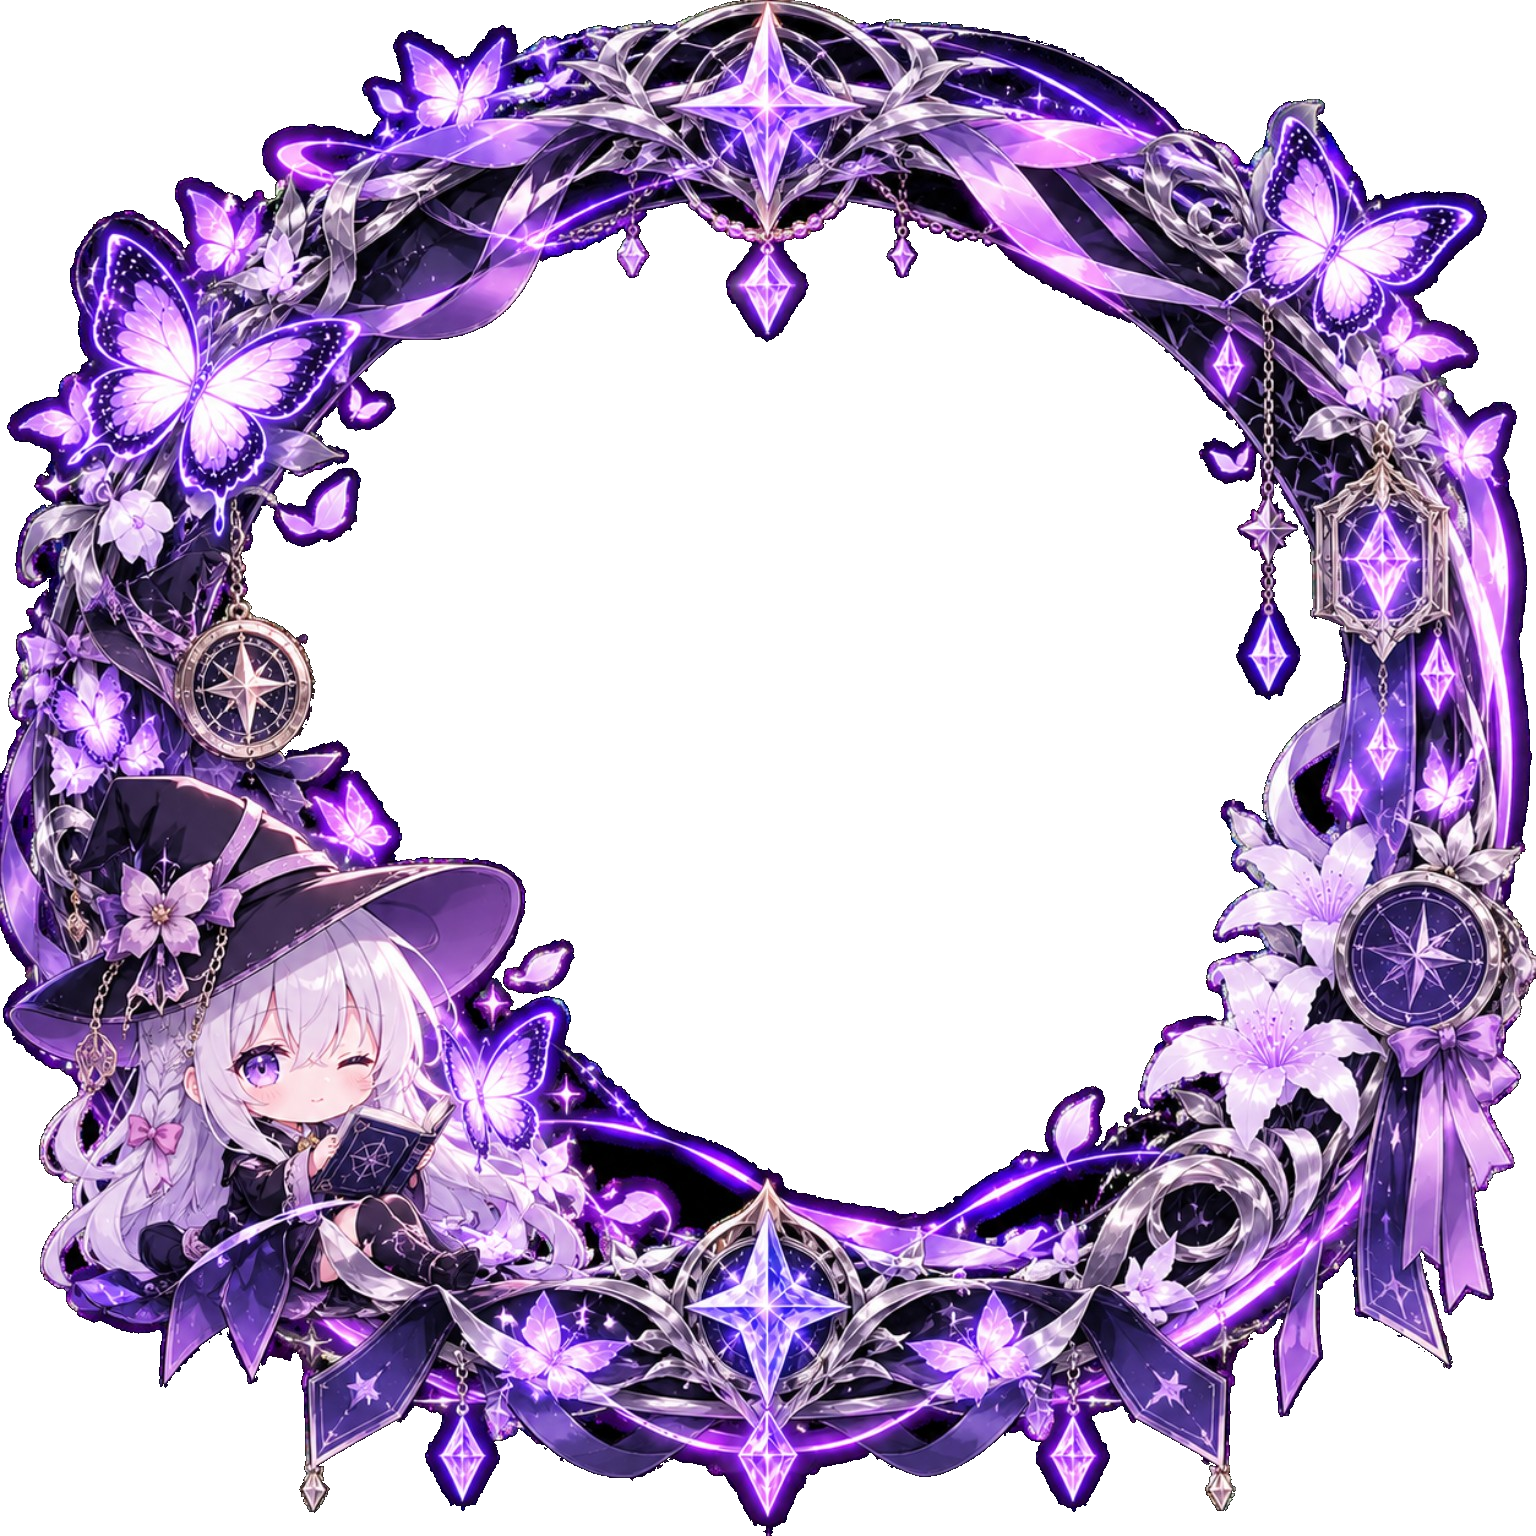
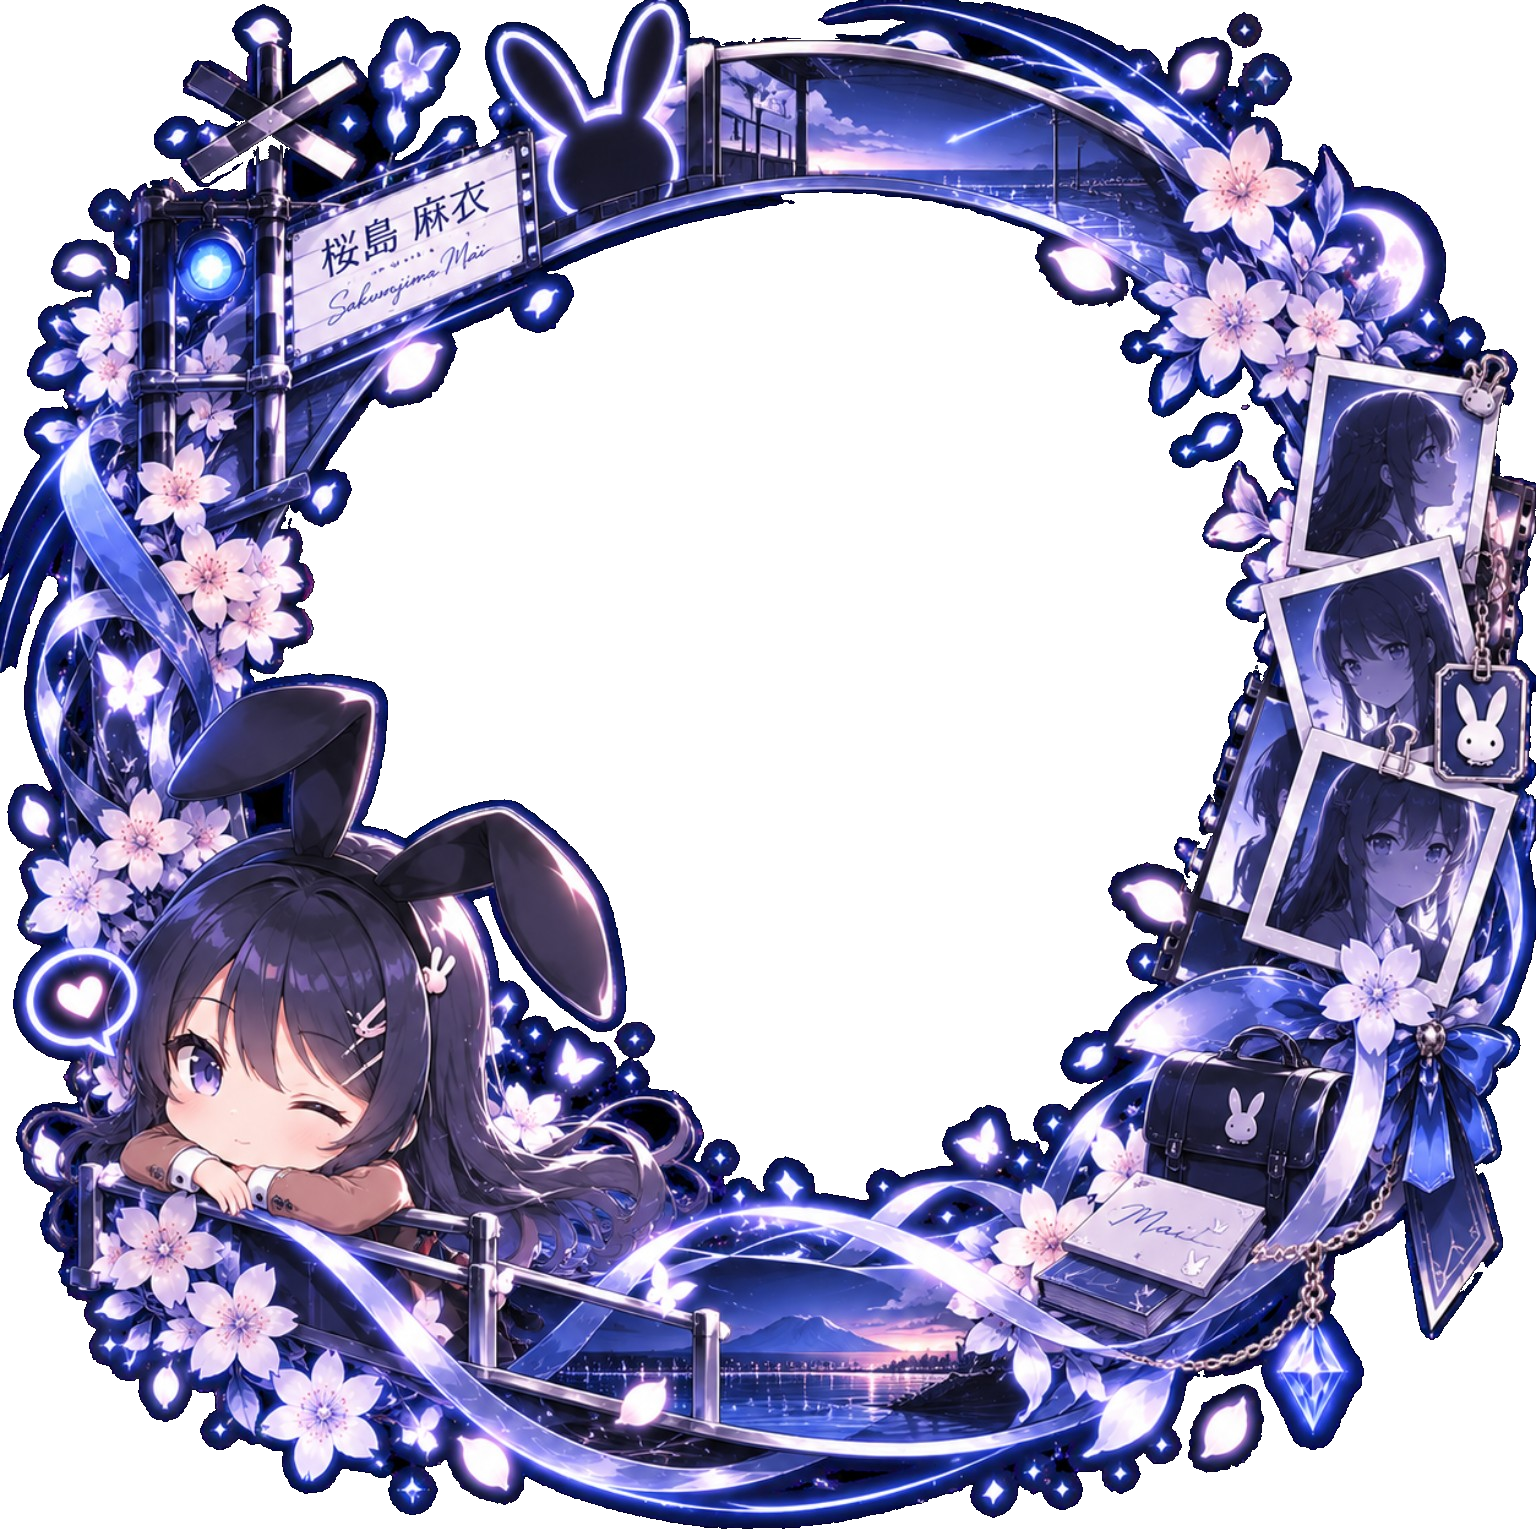
Add files via upload

diff --git a/styles.css b/styles.css
@@ -534,9 +534,9 @@ a.home-member-profile-link{display:block;color:inherit;text-decoration:none;curs
 .member-avatar.has-avatar-frame[data-avatar-frame="Border Mai"],.member-avatar.has-photo.has-avatar-frame[data-avatar-frame="Border Mai"],.public-member-avatar.has-avatar-frame[data-avatar-frame="Border Mai"],.public-profile-avatar.has-avatar-frame[data-avatar-frame="Border Mai"],.chat-contact-avatar.has-avatar-frame[data-avatar-frame="Border Mai"],.chat-person-avatar.has-avatar-frame[data-avatar-frame="Border Mai"],.public-message-avatar.has-avatar-frame[data-avatar-frame="Border Mai"],.member-chat-row .public-member-avatar.has-avatar-frame[data-avatar-frame="Border Mai"]{--border-glow:#6d8bff;--avatar-frame-color:#6d8bff;}
 .member-avatar.has-avatar-frame[data-avatar-frame="Border Kurumi"]::after,.member-avatar.has-photo.has-avatar-frame[data-avatar-frame="Border Kurumi"]::after,.public-member-avatar.has-avatar-frame[data-avatar-frame="Border Kurumi"]::after,.public-profile-avatar.has-avatar-frame[data-avatar-frame="Border Kurumi"]::after,.chat-contact-avatar.has-avatar-frame[data-avatar-frame="Border Kurumi"]::after,.chat-person-avatar.has-avatar-frame[data-avatar-frame="Border Kurumi"]::after,.public-message-avatar.has-avatar-frame[data-avatar-frame="Border Kurumi"]::after,.member-chat-row .public-member-avatar.has-avatar-frame[data-avatar-frame="Border Kurumi"]::after{content:"";position:absolute;inset:-23%;background-image:url("/frame-border-kurumi.png");background-size:100% 100%;background-repeat:no-repeat;background-position:center;pointer-events:none;z-index:8;border-radius:0!important;filter:drop-shadow(0 0 8px #ff344f);}
 .member-avatar.has-avatar-frame[data-avatar-frame="Border Kurumi"],.member-avatar.has-photo.has-avatar-frame[data-avatar-frame="Border Kurumi"],.public-member-avatar.has-avatar-frame[data-avatar-frame="Border Kurumi"],.public-profile-avatar.has-avatar-frame[data-avatar-frame="Border Kurumi"],.chat-contact-avatar.has-avatar-frame[data-avatar-frame="Border Kurumi"],.chat-person-avatar.has-avatar-frame[data-avatar-frame="Border Kurumi"],.public-message-avatar.has-avatar-frame[data-avatar-frame="Border Kurumi"],.member-chat-row .public-member-avatar.has-avatar-frame[data-avatar-frame="Border Kurumi"]{--border-glow:#ff344f;--avatar-frame-color:#ff344f;}
-.member-avatar.has-avatar-frame[data-avatar-frame="Border Elaina"]::after,.member-avatar.has-photo.has-avatar-frame[data-avatar-frame="Border Elaina"]::after,.public-member-avatar.has-avatar-frame[data-avatar-frame="Border Elaina"]::after,.public-profile-avatar.has-avatar-frame[data-avatar-frame="Border Elaina"]::after,.chat-contact-avatar.has-avatar-frame[data-avatar-frame="Border Elaina"]::after,.chat-person-avatar.has-avatar-frame[data-avatar-frame="Border Elaina"]::after,.public-message-avatar.has-avatar-frame[data-avatar-frame="Border Elaina"]::after,.member-chat-row .public-member-avatar.has-avatar-frame[data-avatar-frame="Border Elaina"]::after{content:"";position:absolute;inset:-23%;background-image:url("/frame-border-elaina.png");background-size:100% 100%;background-repeat:no-repeat;background-position:center;pointer-events:none;z-index:8;border-radius:0!important;filter:drop-shadow(0 0 8px #b06cff);}
+.member-avatar.has-avatar-frame[data-avatar-frame="Border Elaina"]::after,.member-avatar.has-photo.has-avatar-frame[data-avatar-frame="Border Elaina"]::after,.public-member-avatar.has-avatar-frame[data-avatar-frame="Border Elaina"]::after,.public-profile-avatar.has-avatar-frame[data-avatar-frame="Border Elaina"]::after,.chat-contact-avatar.has-avatar-frame[data-avatar-frame="Border Elaina"]::after,.chat-person-avatar.has-avatar-frame[data-avatar-frame="Border Elaina"]::after,.public-message-avatar.has-avatar-frame[data-avatar-frame="Border Elaina"]::after,.member-chat-row .public-member-avatar.has-avatar-frame[data-avatar-frame="Border Elaina"]::after{content:"";position:absolute;inset:-23%;background-image:url("/frame-border-mai-blue.png");background-size:100% 100%;background-repeat:no-repeat;background-position:center;pointer-events:none;z-index:8;border-radius:0!important;filter:drop-shadow(0 0 8px #b06cff);}
 .member-avatar.has-avatar-frame[data-avatar-frame="Border Elaina"],.member-avatar.has-photo.has-avatar-frame[data-avatar-frame="Border Elaina"],.public-member-avatar.has-avatar-frame[data-avatar-frame="Border Elaina"],.public-profile-avatar.has-avatar-frame[data-avatar-frame="Border Elaina"],.chat-contact-avatar.has-avatar-frame[data-avatar-frame="Border Elaina"],.chat-person-avatar.has-avatar-frame[data-avatar-frame="Border Elaina"],.public-message-avatar.has-avatar-frame[data-avatar-frame="Border Elaina"],.member-chat-row .public-member-avatar.has-avatar-frame[data-avatar-frame="Border Elaina"]{--border-glow:#b06cff;--avatar-frame-color:#b06cff;}
-.member-avatar.has-avatar-frame[data-avatar-frame="Border Mai Blue"]::after,.member-avatar.has-photo.has-avatar-frame[data-avatar-frame="Border Mai Blue"]::after,.public-member-avatar.has-avatar-frame[data-avatar-frame="Border Mai Blue"]::after,.public-profile-avatar.has-avatar-frame[data-avatar-frame="Border Mai Blue"]::after,.chat-contact-avatar.has-avatar-frame[data-avatar-frame="Border Mai Blue"]::after,.chat-person-avatar.has-avatar-frame[data-avatar-frame="Border Mai Blue"]::after,.public-message-avatar.has-avatar-frame[data-avatar-frame="Border Mai Blue"]::after,.member-chat-row .public-member-avatar.has-avatar-frame[data-avatar-frame="Border Mai Blue"]::after{content:"";position:absolute;inset:-23%;background-image:url("/frame-border-mai-blue.png");background-size:100% 100%;background-repeat:no-repeat;background-position:center;pointer-events:none;z-index:8;border-radius:0!important;filter:drop-shadow(0 0 8px #66aaff);}
+.member-avatar.has-avatar-frame[data-avatar-frame="Border Mai Blue"]::after,.member-avatar.has-photo.has-avatar-frame[data-avatar-frame="Border Mai Blue"]::after,.public-member-avatar.has-avatar-frame[data-avatar-frame="Border Mai Blue"]::after,.public-profile-avatar.has-avatar-frame[data-avatar-frame="Border Mai Blue"]::after,.chat-contact-avatar.has-avatar-frame[data-avatar-frame="Border Mai Blue"]::after,.chat-person-avatar.has-avatar-frame[data-avatar-frame="Border Mai Blue"]::after,.public-message-avatar.has-avatar-frame[data-avatar-frame="Border Mai Blue"]::after,.member-chat-row .public-member-avatar.has-avatar-frame[data-avatar-frame="Border Mai Blue"]::after{content:"";position:absolute;inset:-23%;background-image:url("/frame-border-elaina.png");background-size:100% 100%;background-repeat:no-repeat;background-position:center;pointer-events:none;z-index:8;border-radius:0!important;filter:drop-shadow(0 0 8px #66aaff);}
 .member-avatar.has-avatar-frame[data-avatar-frame="Border Mai Blue"],.member-avatar.has-photo.has-avatar-frame[data-avatar-frame="Border Mai Blue"],.public-member-avatar.has-avatar-frame[data-avatar-frame="Border Mai Blue"],.public-profile-avatar.has-avatar-frame[data-avatar-frame="Border Mai Blue"],.chat-contact-avatar.has-avatar-frame[data-avatar-frame="Border Mai Blue"],.chat-person-avatar.has-avatar-frame[data-avatar-frame="Border Mai Blue"],.public-message-avatar.has-avatar-frame[data-avatar-frame="Border Mai Blue"],.member-chat-row .public-member-avatar.has-avatar-frame[data-avatar-frame="Border Mai Blue"]{--border-glow:#66aaff;--avatar-frame-color:#66aaff;}
 .member-avatar.has-avatar-frame[data-avatar-frame^="Border "]::before,.member-avatar.has-photo.has-avatar-frame[data-avatar-frame^="Border "]::before,.public-member-avatar.has-avatar-frame[data-avatar-frame^="Border "]::before,.public-profile-avatar.has-avatar-frame[data-avatar-frame^="Border "]::before,.chat-contact-avatar.has-avatar-frame[data-avatar-frame^="Border "]::before,.chat-person-avatar.has-avatar-frame[data-avatar-frame^="Border "]::before,.public-message-avatar.has-avatar-frame[data-avatar-frame^="Border "]::before,.member-chat-row .public-member-avatar.has-avatar-frame[data-avatar-frame^="Border "]::before{inset:-24%!important;padding:3px!important;background:conic-gradient(from 0deg,transparent 0deg,var(--border-glow,#c084fc) 45deg,#fff 65deg,transparent 95deg,transparent 180deg,var(--border-glow,#c084fc) 225deg,transparent 260deg,transparent 360deg)!important;filter:drop-shadow(0 0 7px var(--border-glow,#c084fc))!important;animation:pemudaAvatarFrameSpin 2.2s linear infinite!important;}
 

diff --git a/leaderboard.html b/leaderboard.html
@@ -2,7 +2,7 @@
 <html lang="id">
 <head>
 <meta charset="utf-8"><meta name="viewport" content="width=device-width,initial-scale=1"><meta name="theme-color" content="#0b0912"><title>Leaderboard | — Grup Pemuda`友</title><meta name="description" content="Leaderboard resmi member — Grup Pemuda`友."><link rel="stylesheet" href="/styles.css">
-<style>.leaderboard-page{max-width:900px;margin:50px auto}.leaderboard-page .leaderboard-list{display:grid;gap:10px}.leaderboard-page .leaderboard-row{width:100%;text-align:left;cursor:default}.leaderboard-page .back-row{display:flex;gap:10px;flex-wrap:wrap;margin:20px 0}.leaderboard-page .leaderboard-row-avatar{display:block;flex:0 0 48px;width:48px;height:48px;aspect-ratio:1/1;object-fit:cover;object-position:center;border-radius:50%;border:2px solid #a78bfa;background:linear-gradient(145deg,#d946ef,#6366f1,#22d3ee);box-shadow:0 0 12px #8b5cf655}.leaderboard-page .leaderboard-row-avatar-fallback{display:grid;place-items:center;color:white;font-weight:800;font-size:21px}.leaderboard-page .leaderboard-avatar-wrap{position:relative;display:block;flex:0 0 48px;width:48px;height:48px;isolation:isolate;z-index:1}.leaderboard-page .leaderboard-avatar-wrap .leaderboard-row-avatar{width:100%;height:100%;display:block}.leaderboard-page .leaderboard-avatar-wrap.has-avatar-frame::after{content:"";position:absolute;inset:-23%;background-size:100% 100%;background-repeat:no-repeat;background-position:center;pointer-events:none;z-index:8;filter:drop-shadow(0 0 7px #c084fcaa)}.leaderboard-page .leaderboard-avatar-wrap[data-avatar-frame="Border Alya"]::after{background-image:url("/frame-border-alya.png")}.leaderboard-page .leaderboard-avatar-wrap[data-avatar-frame="Border Mahiru"]::after{background-image:url("/frame-border-mahiru.png")}.leaderboard-page .leaderboard-avatar-wrap[data-avatar-frame="Border Tohka"]::after{background-image:url("/frame-border-tohka.png")}.leaderboard-page .leaderboard-avatar-wrap[data-avatar-frame="Border Mai"]::after{background-image:url("/frame-border-mai.png")}.leaderboard-page .leaderboard-avatar-wrap[data-avatar-frame="Border Kurumi"]::after{background-image:url("/frame-border-kurumi.png")}.leaderboard-page .leaderboard-avatar-wrap[data-avatar-frame="Border Elaina"]::after{background-image:url("/frame-border-elaina.png")}.leaderboard-page .leaderboard-avatar-wrap[data-avatar-frame="Border Mai Blue"]::after{background-image:url("/frame-border-mai-blue.png")}.leaderboard-page .leaderboard-avatar-wrap[data-avatar-frame="Bingkai Shadow Blossom"]::after{background-image:url("/frame-shadow-blossom.png")}.leaderboard-page .leaderboard-avatar-wrap[data-avatar-frame="Bingkai Crimson Legend"]::after{background-image:url("/frame-crimson-legend.png")}.leaderboard-page .leaderboard-avatar-wrap[data-avatar-frame="Bingkai Kosmik Lavender"]::after{background-image:url("/frame-cosmic-lavender.png")}.leaderboard-page .leaderboard-rank{flex:0 0 27px}@media(max-width:500px){.leaderboard-page .leaderboard-row-avatar{flex-basis:40px;width:40px;height:40px}.leaderboard-page .leaderboard-avatar-wrap{flex-basis:40px;width:40px;height:40px}}</style>
+<style>.leaderboard-page{max-width:900px;margin:50px auto}.leaderboard-page .leaderboard-list{display:grid;gap:10px}.leaderboard-page .leaderboard-row{width:100%;text-align:left;cursor:default}.leaderboard-page .back-row{display:flex;gap:10px;flex-wrap:wrap;margin:20px 0}.leaderboard-page .leaderboard-row-avatar{display:block;flex:0 0 48px;width:48px;height:48px;aspect-ratio:1/1;object-fit:cover;object-position:center;border-radius:50%;border:2px solid #a78bfa;background:linear-gradient(145deg,#d946ef,#6366f1,#22d3ee);box-shadow:0 0 12px #8b5cf655}.leaderboard-page .leaderboard-row-avatar-fallback{display:grid;place-items:center;color:white;font-weight:800;font-size:21px}.leaderboard-page .leaderboard-avatar-wrap{position:relative;display:block;flex:0 0 48px;width:48px;height:48px;isolation:isolate;z-index:1}.leaderboard-page .leaderboard-avatar-wrap .leaderboard-row-avatar{width:100%;height:100%;display:block}.leaderboard-page .leaderboard-avatar-wrap.has-avatar-frame::after{content:"";position:absolute;inset:-23%;background-size:100% 100%;background-repeat:no-repeat;background-position:center;pointer-events:none;z-index:8;filter:drop-shadow(0 0 7px #c084fcaa)}.leaderboard-page .leaderboard-avatar-wrap[data-avatar-frame="Border Alya"]::after{background-image:url("/frame-border-alya.png")}.leaderboard-page .leaderboard-avatar-wrap[data-avatar-frame="Border Mahiru"]::after{background-image:url("/frame-border-mahiru.png")}.leaderboard-page .leaderboard-avatar-wrap[data-avatar-frame="Border Tohka"]::after{background-image:url("/frame-border-tohka.png")}.leaderboard-page .leaderboard-avatar-wrap[data-avatar-frame="Border Mai"]::after{background-image:url("/frame-border-mai.png")}.leaderboard-page .leaderboard-avatar-wrap[data-avatar-frame="Border Kurumi"]::after{background-image:url("/frame-border-kurumi.png")}.leaderboard-page .leaderboard-avatar-wrap[data-avatar-frame="Border Elaina"]::after{background-image:url("/frame-border-mai-blue.png")}.leaderboard-page .leaderboard-avatar-wrap[data-avatar-frame="Border Mai Blue"]::after{background-image:url("/frame-border-elaina.png")}.leaderboard-page .leaderboard-avatar-wrap[data-avatar-frame="Bingkai Shadow Blossom"]::after{background-image:url("/frame-shadow-blossom.png")}.leaderboard-page .leaderboard-avatar-wrap[data-avatar-frame="Bingkai Crimson Legend"]::after{background-image:url("/frame-crimson-legend.png")}.leaderboard-page .leaderboard-avatar-wrap[data-avatar-frame="Bingkai Kosmik Lavender"]::after{background-image:url("/frame-cosmic-lavender.png")}.leaderboard-page .leaderboard-rank{flex:0 0 27px}@media(max-width:500px){.leaderboard-page .leaderboard-row-avatar{flex-basis:40px;width:40px;height:40px}.leaderboard-page .leaderboard-avatar-wrap{flex-basis:40px;width:40px;height:40px}}</style>
 </head><body>
 <header class="topbar"><a class="brand" href="/"><span class="brand-mark">友</span><span>— Grup Pemuda<small>COMMUNITY HUB</small></span></a><nav id="main-nav"><a href="/#grup">KOMUNITAS</a><a href="/members.html">MEMBER</a><a href="/member.html">DASHBOARD MEMBER</a></nav></header>
 <main class="wrap leaderboard-page"><div class="eyebrow">COMMUNITY RANKING</div><h1>🏆 Leaderboard</h1><p class="muted">Peringkat diperbarui otomatis berdasarkan poin terbanyak. Jika poin sama, levelnya sama; urutan berikutnya ditentukan oleh poin.</p><div class="panel leaderboard-panel"><div id="leaderboard-list" class="leaderboard-list"><p class="muted">Memuat leaderboard…</p></div><p id="leaderboard-status" class="status" aria-live="polite"></p></div><div class="back-row"><a class="btn primary" href="/#grup">Jelajahi Komunitas ↗</a><a class="btn secondary" href="/">Menu Utama</a></div></main>

diff --git a/member-border-collection.js b/member-border-collection.js
@@ -6,7 +6,7 @@ if(root){
  const list=document.querySelector('#member-border-list'),status=document.querySelector('#member-border-status'),remove=document.querySelector('#member-border-remove');
  const esc=s=>String(s??'').replace(/[&<>"']/g,c=>({'&':'&amp;','<':'&lt;','>':'&gt;','"':'&quot;',"'":'&#39;'}[c]));
  const isFrame=i=>/frame|border|bingkai/i.test(String(i.category||''))||/frame|border|bingkai/i.test(String(i.item_name||''));
- const artFor=i=>{const n=String(i.item_name||'').toLowerCase();const map=[[/shadow\s*blossom|bingkai shadow|border shadow/,'frame-shadow-blossom.png'],[/border\s*alya|bingkai alya/,'frame-border-alya.png'],[/border\s*mahiru|bingkai mahiru/,'frame-border-mahiru.png'],[/border\s*tohka|bingkai tohka/,'frame-border-tohka.png'],[/border\s*mai.*blue|mai.*biru/,'frame-border-mai-blue.png'],[/border\s*mai|bingkai mai/,'frame-border-mai.png'],[/border\s*kurumi|bingkai kurumi/,'frame-border-kurumi.png'],[/border\s*elaina|bingkai elaina/,'frame-border-elaina.png'],[/cosmic\s*lavender/,'frame-cosmic-lavender.png'],[/crimson\s*legend/,'frame-crimson-legend.png']];return map.find(([r])=>r.test(n))?.[1]||(/^frame-[a-z0-9-]+\.png$/i.test(String(i.icon||''))?String(i.icon):'');};
+ const artFor=i=>{const n=String(i.item_name||'').toLowerCase();const map=[[/shadow\s*blossom|bingkai shadow|border shadow/,'frame-shadow-blossom.png'],[/border\s*alya|bingkai alya/,'frame-border-alya.png'],[/border\s*mahiru|bingkai mahiru/,'frame-border-mahiru.png'],[/border\s*tohka|bingkai tohka/,'frame-border-tohka.png'],[/border\s*mai.*blue|mai.*biru/,'frame-border-elaina.png'],[/border\s*mai|bingkai mai/,'frame-border-mai.png'],[/border\s*kurumi|bingkai kurumi/,'frame-border-kurumi.png'],[/border\s*elaina|bingkai elaina/,'frame-border-mai-blue.png'],[/cosmic\s*lavender/,'frame-cosmic-lavender.png'],[/crimson\s*legend/,'frame-crimson-legend.png']];return map.find(([r])=>r.test(n))?.[1]||(/^frame-[a-z0-9-]+\.png$/i.test(String(i.icon||''))?String(i.icon):'');};
  const preview=i=>{const art=artFor(i);return art?`<div class="member-border-art"><img src="/${esc(art)}" alt="${esc(i.item_name)}" loading="lazy" onerror="this.parentElement.textContent='Gambar border tidak ditemukan'"></div>`:`<div class="member-border-fallback" aria-hidden="true">${esc(i.item_name)}</div>`};
  async function load(user){if(!user){list.innerHTML='<p class="muted">Login sebagai member untuk mengatur koleksi border.</p>';return}list.innerHTML='<p class="muted">Memuat koleksi border…</p>';const [{data:inv,error},{data:profile, error:pe}]=await Promise.all([db.from('wallet_inventory').select('item_name,category,icon,purchased_at').eq('user_id',user.id).order('purchased_at',{ascending:false}),db.from('staff_profiles').select('avatar_frame').eq('user_id',user.id).maybeSingle()]);if(error){list.innerHTML='<p class="muted">Koleksi belum dapat dimuat. Pastikan tabel wallet_inventory tersedia.</p>';return}const frames=(inv||[]).filter(isFrame),equipped=profile?.avatar_frame||'';list.innerHTML=frames.length?frames.map(i=>`<article class="wallet-card member-border-card">${preview(i)}<h3>${esc(i.item_name)}</h3><p class="muted">Border anime milikmu</p><button type="button" class="btn ${equipped===i.item_name?'secondary':'primary'} member-equip-border" data-frame="${esc(i.item_name)}" ${equipped===i.item_name?'disabled':''}>${equipped===i.item_name?'Terpasang':'Pasang border'}</button></article>`).join(''):'<p class="muted">Kamu belum memiliki border. Beli border anime di <a href="/saldo.html#shop">Toko</a>.</p>';
  list.querySelectorAll('.member-equip-border').forEach(b=>b.addEventListener('click',async()=>{b.disabled=true;status.textContent='Memasang border…';const {error}=await db.from('staff_profiles').update({avatar_frame:b.dataset.frame}).eq('user_id',user.id);status.textContent=error?'Gagal memasang border: '+error.message:'Border berhasil dipasang pada profil.';await load(user)}));

diff --git a/saldo.js b/saldo.js
@@ -11,10 +11,10 @@ function cosmeticPreview(item,small=false){
   [/border\s*alya|bingkai alya/, 'frame-border-alya.png'],
   [/border\s*mahiru|bingkai mahiru/, 'frame-border-mahiru.png'],
   [/border\s*tohka|bingkai tohka/, 'frame-border-tohka.png'],
-  [/border\s*elaina.*blue|elaina.*biru/, 'frame-border-mai-blue.png'],
   [/border\s*kurumi|bingkai kurumi/, 'frame-border-kurumi.png'],
-  [/border\s*mai|bingkai mai/, 'frame-border-kurumi.png'],
-  [/border\s*mai|bingkai mai/, 'frame-border-maiv2.png'],
+  [/border\s*mai.*blue|mai.*biru/, 'frame-border-mai-blue.png'],
+  [/border\s*mai|bingkai mai/, 'frame-border-mai.png'],
+  [/border\s*elaina|bingkai elaina/, 'frame-border-elaina.png'],
   [/cosmic\s*lavender/, 'frame-cosmic-lavender.png'],
   [/crimson\s*legend/, 'frame-crimson-legend.png']
  ];
